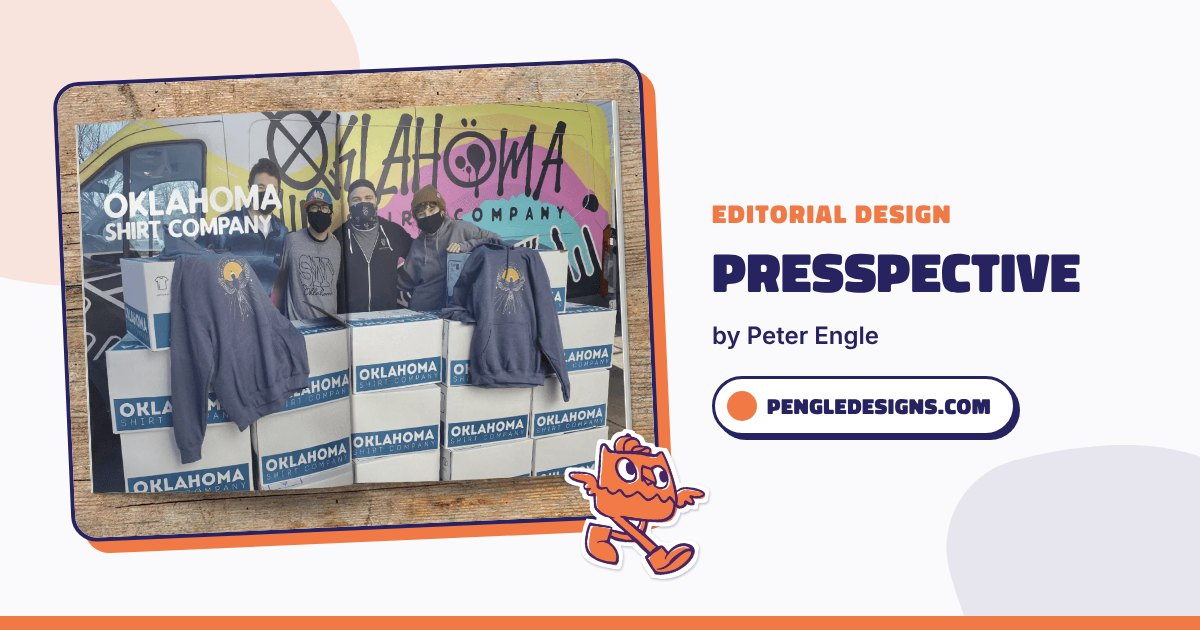
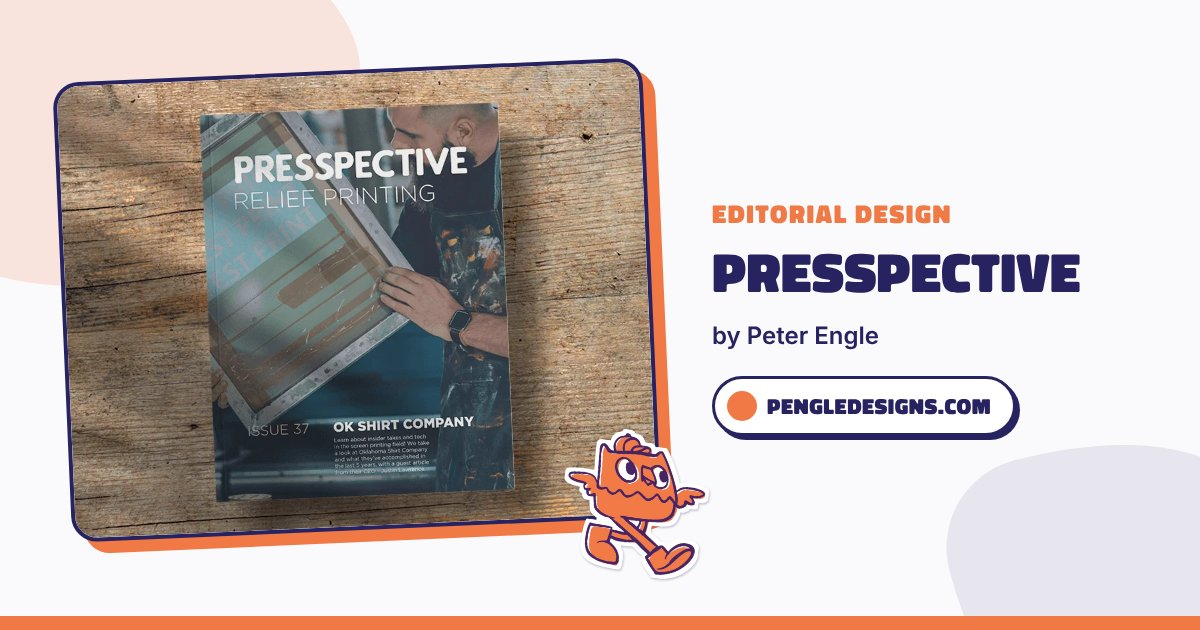
Fine Dining story copy; tighter Presspective crop on card, page and share card
Claude-Session: https://claude.ai/code/session_0141Tgqx9S6kfncvua7GHo6o

Changed region(s): [[0.0308, 0.0905, 0.555, 0.8746]]

diff --git a/portfolio-details-finedining.html b/portfolio-details-finedining.html
@@ -5,12 +5,12 @@
   <meta charset="utf-8">
   <meta content="width=device-width, initial-scale=1.0" name="viewport">
   <title>Fine Dining | Peter Engle</title>
-  <meta name="description" content="A refined palate in a not-so-refined place.">
+  <meta name="description" content="The best table in town: no wait, no dress code, and plenty of regulars.">
   <!-- Share preview -->
   <meta property="og:type" content="website">
   <meta property="og:site_name" content="Peter Engle">
   <meta property="og:title" content="Fine Dining | Peter Engle">
-  <meta property="og:description" content="A refined palate in a not-so-refined place.">
+  <meta property="og:description" content="The best table in town: no wait, no dress code, and plenty of regulars.">
   <meta property="og:url" content="https://pengledesigns.com/portfolio-details-finedining.html">
   <meta property="og:image" content="https://pengledesigns.com/assets/img/og/finedining.jpg">
   <meta property="og:image:width" content="1200">
@@ -83,7 +83,7 @@
       <div class="title-wrapper">
         <span class="project-label">Illustration</span>
         <h1>Fine Dining</h1>
-        <p>A true connoisseur enjoys a cheese flight at the finest establishment in town: the building&rsquo;s trash room. Drawn with a limited, earthy palette and a grimy paper texture, with plenty of little details (and roommates) tucked into every corner.</p>
+        <p>Every building has that one guy who knows where the good stuff is hidden. While everyone upstairs is fighting over reservations, he&rsquo;s already claimed the best seat in the house, right next to the dumpster, where the regulars never complain and the caution tape keeps out the riff-raff.</p>
       </div>
     </div><!-- End Page Title -->
 

diff --git a/index.html b/index.html
@@ -319,7 +319,7 @@
             <div class="col-6 col-lg-6 portfolio-item isotope-item filter-Editorial">
               <div class="portfolio-card">
                 <a href="portfolio-details-presspective.html" class="portfolio-image">
-                  <img src="assets/img/projects/presspective/cover.webp" class="img-fluid" alt="Presspective" width="1500" height="1000" loading="lazy">
+                  <img src="assets/img/projects/presspective/cover-crop.webp" class="img-fluid" alt="Presspective" width="960" height="640" loading="lazy">
                   <div class="portfolio-overlay">
                     <div class="portfolio-actions">
                       <span class="details-link"><i class="bi bi-arrow-right"></i></span>
@@ -546,7 +546,7 @@
                 <div class="portfolio-content">
                   <span class="category">Illustration</span>
                   <h3><a href="portfolio-details-finedining.html">Fine Dining</a></h3>
-                  <p>A refined palate in a not-so-refined place.</p>
+                  <p>The best table in town: no wait, no dress code, and plenty of regulars.</p>
                 </div>
               </div>
             </div><!-- End Portfolio Item -->

diff --git a/portfolio-details-presspective.html b/portfolio-details-presspective.html
@@ -91,7 +91,7 @@
     <section id="portfolio-details" class="portfolio-details section">
       <div class="container project-gallery">
         <a href="assets/img/projects/presspective/cover.webp" class="glightbox project-shot" data-gallery="presspective" data-aos="fade-up">
-          <img src="assets/img/projects/presspective/cover.webp" alt="Presspective image 1" width="1500" height="1000" class="img-fluid">
+          <img src="assets/img/projects/presspective/cover-crop.webp" alt="Presspective image 1" width="960" height="640" class="img-fluid">
         </a>
         <a href="assets/img/projects/presspective/history.webp" class="glightbox project-shot" data-gallery="presspective" data-aos="fade-up">
           <img src="assets/img/projects/presspective/history.webp" alt="Presspective image 2" width="1500" height="1000" loading="lazy" class="img-fluid">
